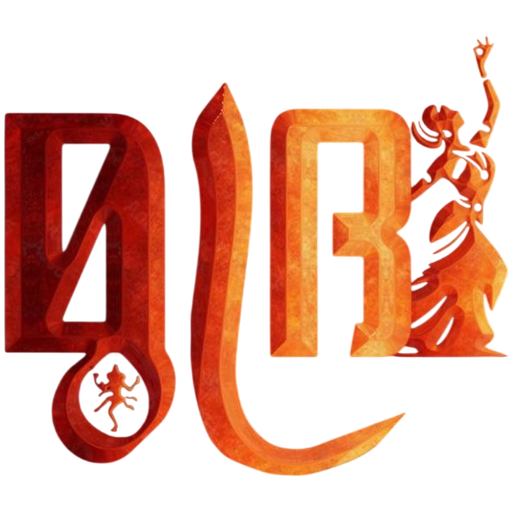
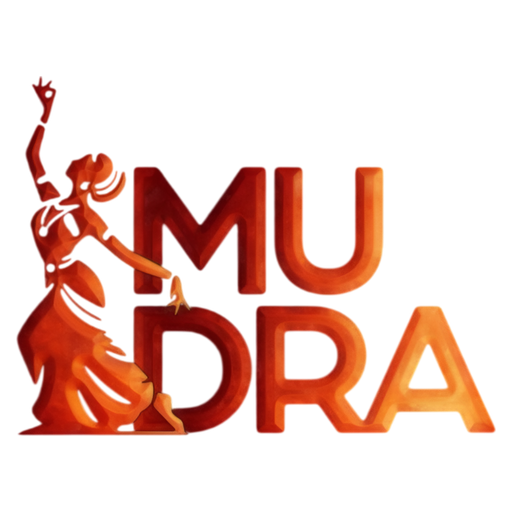
new changes

diff --git a/app/layout.tsx b/app/layout.tsx
@@ -38,11 +38,8 @@ const spaceMono = Space_Mono({
 export const metadata: Metadata = {
   title: "MUDRA",
   description: "Official website for the MUDRA-Toc H Cultural Arts Competition.",
-  icons: {
-    icon: "/images/mudra-logo.png",
-    shortcut: "/images/mudra-logo.png",
-    apple: "/images/mudra-logo.png",
-  },
+  // Icons come from the file conventions: app/favicon.ico, app/icon.png,
+  // app/apple-icon.png (generated from the new MUDRA dancer logo).
 };
 
 export default function RootLayout({
